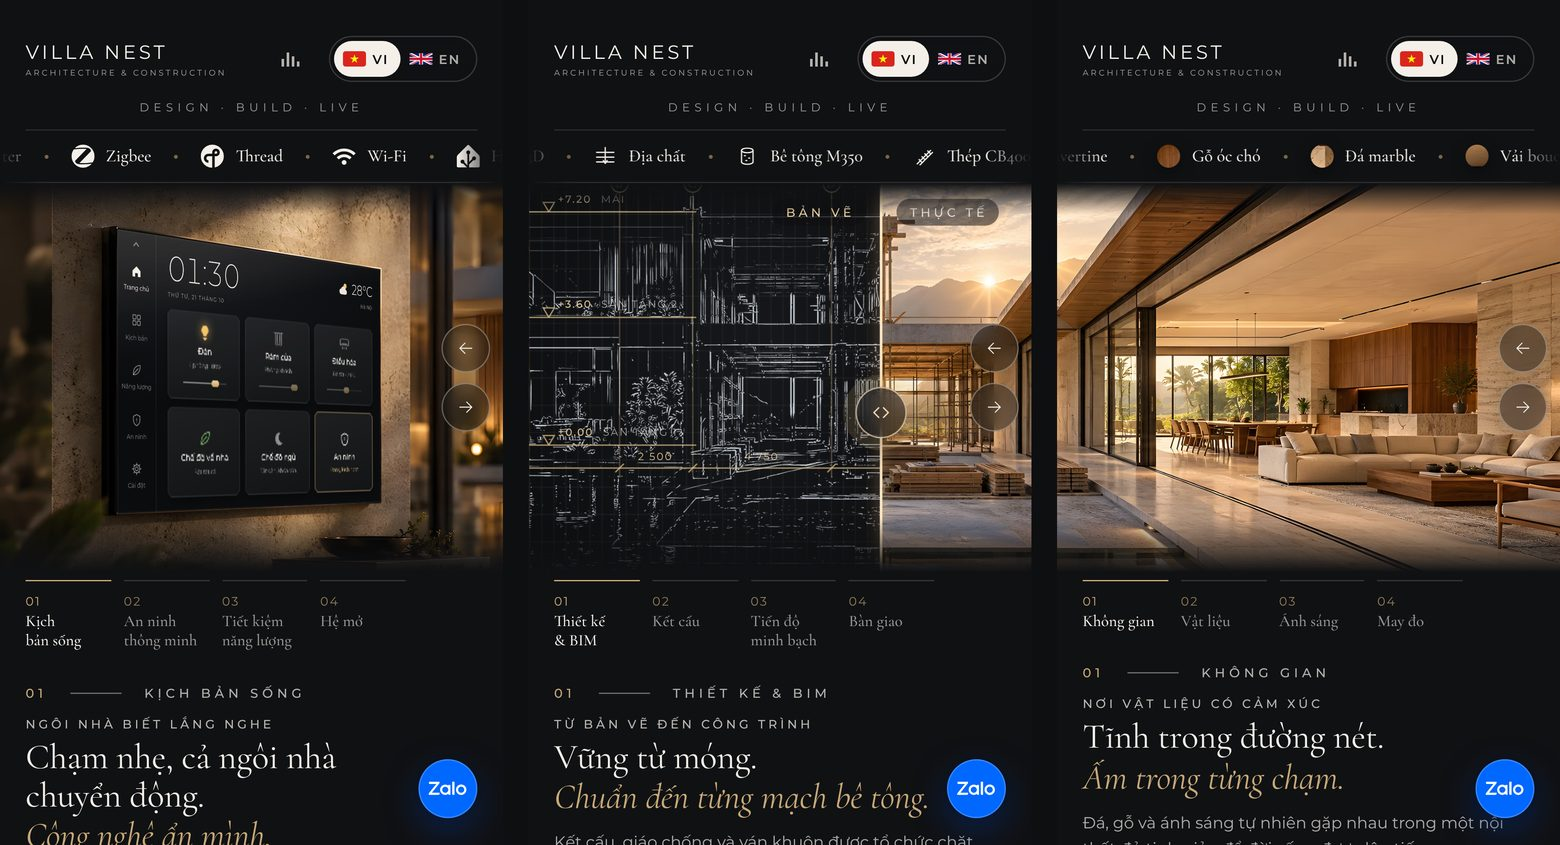
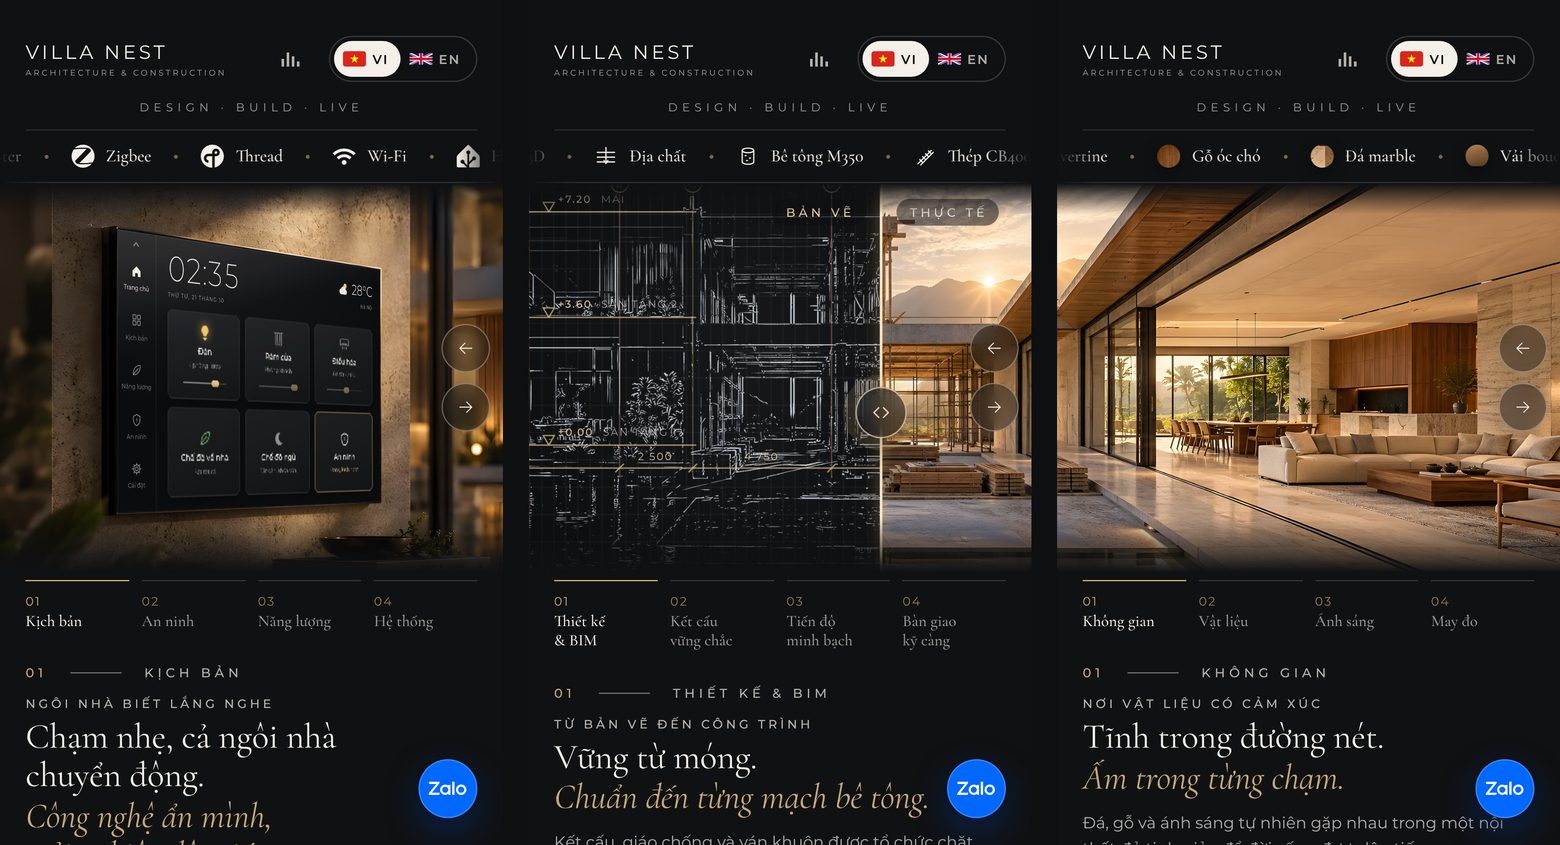
Phone tabs across the full width with even names; construction callouts clear of the edges
- Smart Home: the themes are now "Kịch bản · An ninh · Năng lượng · Hệ thống"
  (EN "Scenes · Security · Energy · System"), each on one line; the longer
  wording stays in each theme's kicker.
- Construction: "Thiết kế & BIM · Kết cấu vững chắc · Tiến độ minh bạch ·
  Bàn giao kỹ càng" (EN "Design & BIM · Solid structure · Transparent
  progress · Thorough handover"), each on two lines in the phone tabs: a
  "\n" in a theme's title marks where its tab breaks, one line elsewhere.
  Interior: EN "Made to measure" becomes "Bespoke" (one line, as "May đo").
- Phones: the four tabs sit right under the photo, side by side across the
  whole width; the story and the cards come under them. That high up the
  Zalo button never reaches the tabs, so no room is held back for it.
- Construction, structure phase on phones: callout labels near the photo's
  edge open the other way (down and to the left), so none is cut off or
  lies over another; the narrowest phones show the part only.
- README and screenshots updated.

Claude-Session: https://claude.ai/code/session_01ABzS96shmJdw9WaqCmCJfb

diff --git a/src/pages/shared/page.css b/src/pages/shared/page.css
@@ -283,6 +283,11 @@
   height: 22px;
 }
 
+/* (a title's break, for the phones' tabs) */
+.pg-nav .hc-nav__break {
+  display: none;
+}
+
 /* The themes along the bottom, with the hint: the home page's navigation (editorial.css). */
 .pg-nav {
   position: relative;
@@ -341,9 +346,9 @@
 
 @media (max-width: 760px), (orientation: portrait) and (max-width: 1024px) {
   /*
-   * As the home page on a phone: the photo first — with the story it plays right under it,
-   * once opened — then the themes as tabs, what a theme shows (a card) and its text. The stage
-   * gives its parts to the hero's column, so they can be ordered round the tabs.
+   * As the home page on a phone: the photo first, the four themes right under it as tabs
+   * across the whole width, then what a theme opens (the story, a card) and its text. The
+   * stage gives its parts to the hero's column, so they can be ordered round the tabs.
    */
   .pg-hero {
     height: auto;
@@ -409,7 +414,7 @@
 
   /* (the home page's phone sizes) */
   .pg-copy {
-    order: 5;
+    order: 4;
     width: auto;
     padding: 24px var(--gutter) 8px;
   }
@@ -470,16 +475,12 @@
     display: none;
   }
 
-  /* The four themes as tabs under the photo (and its story), in one row — short of the Zalo
-     button's corner, should the row reach the foot of the screen. */
+  /* The four themes as tabs right under the photo, side by side across the width (that high
+     up, the Zalo button never reaches them). */
   .pg-nav {
-    order: 3;
+    order: 2;
     margin: 6px var(--gutter) 0;
-    padding: 0 56px 0 0;
-  }
-
-  .pg-hero:has(.pg-story[data-open]) .pg-nav {
-    margin-top: 18px;
+    padding: 0;
   }
 
   /* Short phones: while the story plays, the photo gives it room, so both are in view. */
@@ -511,6 +512,10 @@
     text-wrap: balance;
   }
 
+  .pg-nav .hc-nav__break {
+    display: inline;
+  }
+
   @media (max-width: 340px) {
     .pg-nav .hc-nav__list {
       gap: 7px;
@@ -525,15 +530,15 @@
     display: none;
   }
 
-  /* The story the demo plays comes under the photo; what a theme shows (a card), under the tabs. */
+  /* What a theme opens (the story the demo plays, a card) comes under the tabs. */
   .pg-stage > :is([data-open], [data-on]) {
-    order: 4;
+    order: 3;
     margin-top: 16px;
   }
 
   .pg-story[data-open] {
     display: grid;
-    order: 2;
+    order: 3;
     gap: 14px;
     margin-right: var(--gutter);
     margin-left: var(--gutter);

diff --git a/src/pages/construction/content.ts b/src/pages/construction/content.ts
@@ -14,6 +14,7 @@ export interface ConstructionCopy {
   stop: string
   /** After "Explore": the laser line can be dragged. */
   tryIt: string
+  /** `\n` in a title: where the theme's tab breaks on phones (one line elsewhere). */
   features: Record<PhaseId, { title: string; note: string }>
   themes: Record<PhaseId, DeckText & { cta: string }>
   /** The two sides of the laser line, and its handle. */
@@ -57,10 +58,10 @@ const vi: ConstructionCopy = {
   stop: 'Dừng',
   tryIt: 'Kéo đường laser để xem bản vẽ trở thành công trình.',
   features: {
-    design: { title: 'Thiết kế & BIM', note: 'Bản vẽ trước, công trình sau.' },
-    structure: { title: 'Kết cấu', note: 'Vững từ móng đến mái.' },
-    progress: { title: 'Tiến độ minh bạch', note: 'Theo dõi từng tuần.' },
-    handover: { title: 'Bàn giao', note: 'Hoàn công & bảo hành.' },
+    design: { title: 'Thiết kế\n& BIM', note: 'Bản vẽ trước, công trình sau.' },
+    structure: { title: 'Kết cấu\nvững chắc', note: 'Từ móng đến mái.' },
+    progress: { title: 'Tiến độ\nminh bạch', note: 'Theo dõi từng tuần.' },
+    handover: { title: 'Bàn giao\nkỹ càng', note: 'Hoàn công & bảo hành.' },
   },
   themes: {
     design: {
@@ -159,10 +160,10 @@ const en: ConstructionCopy = {
   stop: 'Stop',
   tryIt: 'Drag the laser line to watch the drawing become a building.',
   features: {
-    design: { title: 'Design & BIM', note: 'Drawn first, then built.' },
-    structure: { title: 'Structure', note: 'Solid from footing to roof.' },
-    progress: { title: 'Transparent progress', note: 'Followed week by week.' },
-    handover: { title: 'Handover', note: 'As-built files & warranty.' },
+    design: { title: 'Design\n& BIM', note: 'Drawn first, then built.' },
+    structure: { title: 'Solid\nstructure', note: 'From footing to roof.' },
+    progress: { title: 'Transparent\nprogress', note: 'Followed week by week.' },
+    handover: { title: 'Thorough\nhandover', note: 'As-built files & warranty.' },
   },
   themes: {
     design: {

diff --git a/src/pages/smart-home/content.ts b/src/pages/smart-home/content.ts
@@ -91,10 +91,10 @@ const vi: PageCopy = {
   tryIt: 'Chạm vào bảng điều khiển để thử: đèn, rèm, điều hòa, an ninh.',
   story: { title: 'Một buổi tối ở Villa Nest', replay: 'Xem lại kịch bản' },
   features: {
-    scenes: { title: 'Kịch bản sống', note: 'Về nhà, thư giãn, ngủ ngon.' },
-    security: { title: 'An ninh thông minh', note: 'Theo dõi và kiểm soát từ xa.' },
-    energy: { title: 'Tiết kiệm năng lượng', note: 'Thông minh trong từng chuyển động.' },
-    open: { title: 'Hệ mở', note: 'Matter • Zigbee • Thread • Wi-Fi.' },
+    scenes: { title: 'Kịch bản', note: 'Về nhà, thư giãn, ngủ ngon.' },
+    security: { title: 'An ninh', note: 'Theo dõi và kiểm soát từ xa.' },
+    energy: { title: 'Năng lượng', note: 'Thông minh trong từng chuyển động.' },
+    open: { title: 'Hệ thống', note: 'Matter • Zigbee • Thread • Wi-Fi.' },
   },
   themes: {
     scenes: {
@@ -205,10 +205,10 @@ const en: PageCopy = {
   tryIt: 'Touch the panel to try it: lights, curtains, air con, security.',
   story: { title: 'An evening at Villa Nest', replay: 'Watch again' },
   features: {
-    scenes: { title: 'Living scenes', note: 'Home, unwind, sleep well.' },
-    security: { title: 'Smart security', note: 'Watch and control from anywhere.' },
-    energy: { title: 'Energy saving', note: 'Smart in every movement.' },
-    open: { title: 'Open system', note: 'Matter • Zigbee • Thread • Wi-Fi.' },
+    scenes: { title: 'Scenes', note: 'Home, unwind, sleep well.' },
+    security: { title: 'Security', note: 'Watch and control from anywhere.' },
+    energy: { title: 'Energy', note: 'Smart in every movement.' },
+    open: { title: 'System', note: 'Matter • Zigbee • Thread • Wi-Fi.' },
   },
   themes: {
     scenes: {

diff --git a/src/pages/construction/BuildVisual.tsx b/src/pages/construction/BuildVisual.tsx
@@ -42,12 +42,15 @@ const AXES: [string, number][] = [
 const DIM_Y = 1885
 /** 179 px to the metre (one storey of 3.6 m is 644 px in the photo). */
 const PX_PER_MM = 644 / 3600
-/** What the callouts point at, on the photographed frame. */
-const CALLOUTS: [number, number][] = [
-  [3299, 1560],
-  [4146, 1025],
-  [3950, 420],
-  [4700, 1387],
+/**
+ * What the callouts point at, on the photographed frame — and, on phones, which way a label
+ * opens where the photo's edge is near (otherwise up and to the right).
+ */
+const CALLOUTS: [number, number, ('left' | 'down')[]][] = [
+  [3299, 1560, []],
+  [4146, 1025, []],
+  [3950, 420, ['down', 'left']],
+  [4700, 1387, ['down', 'left']],
 ]
 
 const srcSet = (name: string, widths: number[], format: string) => widths.map((w) => `${BASE}/${name}-${w}.${format} ${w}w`).join(', ')
@@ -275,8 +278,13 @@ export function BuildVisual({ visualRef, copy, phase, sweep, overlay, storyOpen,
           </div>
 
           <div className="cp-callouts" aria-hidden={phase !== 1}>
-            {CALLOUTS.map(([x, y], i) => (
-              <div key={i} className="cp-callout" style={{ ...pct(x, y), '--i': i } as CSSProperties}>
+            {CALLOUTS.map(([x, y, side], i) => (
+              <div
+                key={i}
+                className="cp-callout"
+                style={{ ...pct(x, y), '--i': i } as CSSProperties}
+                data-side={(portrait && side.join(' ')) || undefined}
+              >
                 <i className="cp-callout__dot" />
                 <span className="cp-callout__label">
                   <b>{copy.callouts[i][0]}</b>

diff --git a/src/pages/shared/Deck.tsx b/src/pages/shared/Deck.tsx
@@ -1,4 +1,4 @@
-import { useLayoutEffect, type CSSProperties, type ReactNode, type RefObject } from 'react'
+import { Fragment, useLayoutEffect, type CSSProperties, type ReactNode, type RefObject } from 'react'
 import { MultiLine } from '../../components/HeroCarousel/HeroCopy'
 import { useLineSwap } from '../../components/HeroCarousel/useLineSwap'
 import '../../components/HeroCarousel/editorial.css'
@@ -214,6 +214,21 @@ interface DeckNavProps {
   onSelect: (index: number) => void
 }
 
+/** A theme's title in its tab: at a `\n` it breaks on phones (CSS), and reads as one line elsewhere. */
+function TabTitle({ text }: { text: string }) {
+  return text.split('\n').map((part, i) => (
+    <Fragment key={i}>
+      {i > 0 && (
+        <>
+          {' '}
+          <br className="hc-nav__break" />
+        </>
+      )}
+      {part}
+    </Fragment>
+  ))
+}
+
 export function DeckNav({ label, items, active, onSelect }: DeckNavProps) {
   const { t } = useI18n()
   return (
@@ -223,7 +238,9 @@ export function DeckNav({ label, items, active, onSelect }: DeckNavProps) {
           <li key={title}>
             <button type="button" className="hc-nav__item" aria-current={i === active ? 'true' : undefined} onClick={() => onSelect(i)}>
               <span className="hc-nav__index">{pad(i + 1)}</span>
-              <span className="hc-nav__title">{title}</span>
+              <span className="hc-nav__title">
+                <TabTitle text={title} />
+              </span>
               <span className="hc-nav__subtitle">{note}</span>
             </button>
           </li>

diff --git a/src/pages/construction/ConstructionPage.css b/src/pages/construction/ConstructionPage.css
@@ -683,12 +683,38 @@
     left: 22px;
   }
 
+  /* (near the photo's edge, a label opens the other way) */
+  .cp-callout[data-side~='left'] .cp-callout__label {
+    right: 22px;
+    left: auto;
+  }
+
+  .cp-callout[data-side~='down'] .cp-callout__label {
+    top: 20px;
+    bottom: auto;
+  }
+
+  .cp-callout[data-side='down']::before {
+    rotate: 42deg;
+  }
+
+  .cp-callout[data-side='down left']::before {
+    rotate: 138deg;
+  }
+
+  /* (the narrowest phones: the part only, so the labels keep clear of each other) */
+  @media (max-width: 340px) {
+    .cp-callout__label small {
+      display: none;
+    }
+  }
+
   /* The cards under the tabs, in the page's flow. */
   .cp-card {
     position: relative;
     top: auto;
     right: auto;
-    order: 4;
+    order: 3;
     display: none;
     width: auto;
     margin: 0 var(--gutter);

diff --git a/src/pages/interior/content.ts b/src/pages/interior/content.ts
@@ -113,7 +113,7 @@ const en: InteriorCopy = {
     space: { title: 'Space', note: 'Calm in every line.' },
     materials: { title: 'Materials', note: 'Stone, wood, cloth, brass.' },
     light: { title: 'Light', note: 'Morning, golden hour, evening.' },
-    bespoke: { title: 'Made to measure', note: 'Fitted to the centimetre.' },
+    bespoke: { title: 'Bespoke', note: 'Fitted to the centimetre.' },
   },
   themes: {
     space: {

diff --git a/src/pages/interior/InteriorPage.css b/src/pages/interior/InteriorPage.css
@@ -426,7 +426,7 @@
     position: relative;
     right: auto;
     bottom: auto;
-    order: 4;
+    order: 3;
     display: none;
     width: auto;
     margin: 0 var(--gutter);

diff --git a/README.md b/README.md
@@ -70,15 +70,16 @@ riêng** cùng một phong cách: [`/smart-home/`](#trang-smart-home), [`/constr
     kế, chưa tới ngưỡng thì mọi thứ trượt về chỗ. Vuốt dọc vẫn cuộn trang, chạm vẫn là chạm (bật đèn, chọn vật liệu…);
     thanh trượt, tia laser và công tắc ánh sáng giữ cử chỉ của riêng chúng.
   - **Trên điện thoại** (bố cục như trang chủ): dải biểu tượng thành **một dòng chạy chậm** dưới header, **ảnh "sống" ngay
-    đầu trang**, bốn chủ đề thành **một hàng thẻ ngay dưới ảnh**, rồi đến chữ của chủ đề; thẻ vật liệu, công tắc ánh
-    sáng, thẻ tiến độ / bàn giao hiện ngay dưới hàng thẻ. Bấm **"Xem …"** thì trang **trôi tới ảnh** và mở **kịch bản ngay
-    dưới ảnh** (từng bước, bước đang chạy có vạch thời gian): ảnh và cả khối kịch bản cùng nằm trong màn hình, không bị
-    nút Zalo che (máy thấp: ảnh thu lại một chút; máy hẹp: kịch bản gọn lại — tên các bước một hàng, lời của bước đang
-    chạy ở dưới).
+    đầu trang**, bốn chủ đề thành **một hàng 4 thẻ ngay dưới ảnh, dàn đều hết chiều ngang** (tên ngắn gọn, cùng số dòng:
+    Smart Home và Nội thất một dòng, Xây dựng hai dòng), rồi đến những gì chủ đề mở ra — kịch bản, thẻ vật liệu, công tắc
+    ánh sáng, thẻ tiến độ / bàn giao — và chữ của chủ đề. Bấm **"Xem …"** thì trang **trôi tới ảnh** và mở **kịch bản ngay
+    dưới hàng thẻ** (từng bước, bước đang chạy có vạch thời gian): ảnh, hàng thẻ và cả khối kịch bản cùng nằm trong màn
+    hình, không bị nút Zalo che (máy thấp: ảnh thu lại một chút; máy hẹp: kịch bản gọn lại — tên các bước một hàng, lời
+    của bước đang chạy ở dưới; màn hình dưới 600 px thì phần trên của ảnh nằm dưới header).
 - <a id="trang-smart-home"></a>**Trang Smart Home** (`/smart-home/`, nút **"Khám phá giải pháp"** ở trang chủ): logo chính
   thức của Matter, Zigbee, Thread, Wi-Fi, Home Assistant, HomeKit; ảnh tường đá với bảng điều khiển lớn gắn tường và căn
   biệt thự sáng đèn phía sau.
-  - Bốn chủ đề *Kịch bản sống · An ninh thông minh · Tiết kiệm năng lượng · Hệ mở*, mỗi chủ đề mở một màn hình của bảng
+  - Bốn chủ đề *Kịch bản · An ninh · Năng lượng · Hệ thống*, mỗi chủ đề mở một màn hình của bảng
     (lướt ngang). Màn hình được "dán" vào mặt kính trong ảnh bằng phép chiếu phối cảnh (`matrix3d`), luôn nét và bấm được:
     **Trang chủ** (Đèn, Rèm cửa, Điều hòa, Chế độ về nhà / ngủ, An ninh — tắt đèn căn phòng tối đi, rèm voan kéo ngang
     vách kính, điều hòa có tuyết rơi nhẹ), **Kịch bản**, **An ninh** (**hai camera trực tiếp**: sân trong ban đêm và cổng
@@ -93,10 +94,10 @@ riêng** cùng một phong cách: [`/smart-home/`](#trang-smart-home), [`/constr
   than chì có lưới, cao độ +7.20 / +3.60 / ±0.00, trục A–E, chuỗi kích thước). Một **tia laser** dọc chia đôi: bên trái là
   bản vẽ, bên phải là công trình — **kéo tia laser** (hoặc phím ← → khi chọn tay nắm) để so sánh, phần trăm "đã xây" chạy
   theo.
-  - Bốn chủ đề là bốn giai đoạn: **Thiết kế & BIM** (các nét ghi chú tự vẽ ra) · **Kết cấu** (chú thích trên khung bê tông
-    thật: cột 400 × 400, dầm 300 × 600, sàn 150 mm, giàn chống) · **Tiến độ minh bạch** (thẻ công trường: % hoàn thành,
-    tuần, bốn hạng mục, nhật ký hôm nay — đổi theo tia laser) · **Bàn giao** (cả ngôi nhà hoàn thiện, đèn ấm lên, thẻ
-    bảo hành).
+  - Bốn chủ đề là bốn giai đoạn: **Thiết kế & BIM** (các nét ghi chú tự vẽ ra) · **Kết cấu vững chắc** (chú thích trên khung
+    bê tông thật: cột 400 × 400, dầm 300 × 600, sàn 150 mm, giàn chống — trên điện thoại nhãn gần mép ảnh tự mở sang phía
+    còn chỗ) · **Tiến độ minh bạch** (thẻ công trường: % hoàn thành, tuần, bốn hạng mục, nhật ký hôm nay — đổi theo tia
+    laser) · **Bàn giao kỹ càng** (cả ngôi nhà hoàn thiện, đèn ấm lên, thẻ bảo hành).
   - **"Khám phá …"**: tia laser quét một lượt từ bản vẽ sang công trình rồi về chỗ; **"Xem quá trình xây dựng"** đi qua
     bốn giai đoạn, tia laser chạy theo.
 - <a id="trang-nội-thất"></a>**Trang Nội thất** (`/interior/`, nút **"Khám phá dự án"** ở cảnh Interior) — *"Chất liệu &
@@ -285,7 +286,8 @@ trong suốt) vào `src/assets/brand/` với tên `logo.svg`, `logo.png` hoặc 
 - Nút "Khám phá" của mỗi lĩnh vực mở trang riêng của nó: `smart-home/`, `construction/`, `interior/` (`ctaHref`).
 - Số Zalo của nút chat ở góc dưới phải: `src/config/contact.ts`.
 - Chữ của từng trang (dải dưới header, bốn chủ đề, bảng điều khiển, kịch bản, thẻ, vật liệu, kích thước) nằm trong
-  `src/pages/<trang>/content.ts`, bản `vi` và `en`.
+  `src/pages/<trang>/content.ts`, bản `vi` và `en`. Trong tên chủ đề (`features`), `\n` là chỗ thẻ xuống dòng trên điện
+  thoại (trang Xây dựng: "Kết cấu\nvững chắc"); ở chỗ khác tên vẫn liền một dòng.
 
 ## Thay ảnh
 
@@ -364,7 +366,8 @@ Kiểm thử tự động bằng Playwright (Chromium) trên bản build:
   thanh chủ đề), bánh xe (một cử chỉ = một chủ đề), phím, thẻ; vuốt bằng sự kiện cảm ứng thật — trên ảnh, trên chữ,
   trên các nút của bảng điều khiển, hất nhanh, kéo ngắn trượt về, chạm vẫn bật thiết bị, vuốt dọc cuộn trang, kéo chuột
   không tính là bấm; điện thoại: ảnh + hàng thẻ ở màn hình đầu, nút "Xem …" đưa ảnh + kịch bản vào màn hình (iPhone SE
-  320×568, SE 3, 12 mini, 14 Pro, Galaxy S8, Pixel 7: kịch bản nằm trọn, không bị nút Zalo che, tên thẻ không tràn);
+  320×568, SE 3, 12 mini, 14 Pro, Galaxy S8, Pixel 7, 15 Plus: kịch bản nằm trọn, không bị nút Zalo che; 4 thẻ dàn đều hết
+  chiều ngang, tên không tràn, cùng số dòng; chú thích kết cấu không lấn nhau, không ra ngoài ảnh);
   không có âm thanh khi chuyển cảnh; nút Zalo cố định ở góc dưới phải, không đè lên thẻ / nhãn nào; camera chạy giờ; kéo tia laser (không đổi chủ đề), phím trên tay nắm; thẻ tiến độ,
   chú thích kết cấu; điểm vật liệu đều nằm trong khung, thẻ vật liệu, ánh sáng buổi tối, nét kích thước.
 - Không có lỗi console, không có request ra ngoài Internet, không có thanh cuộn ngang; chạy đúng sau Nginx với cấu hình
